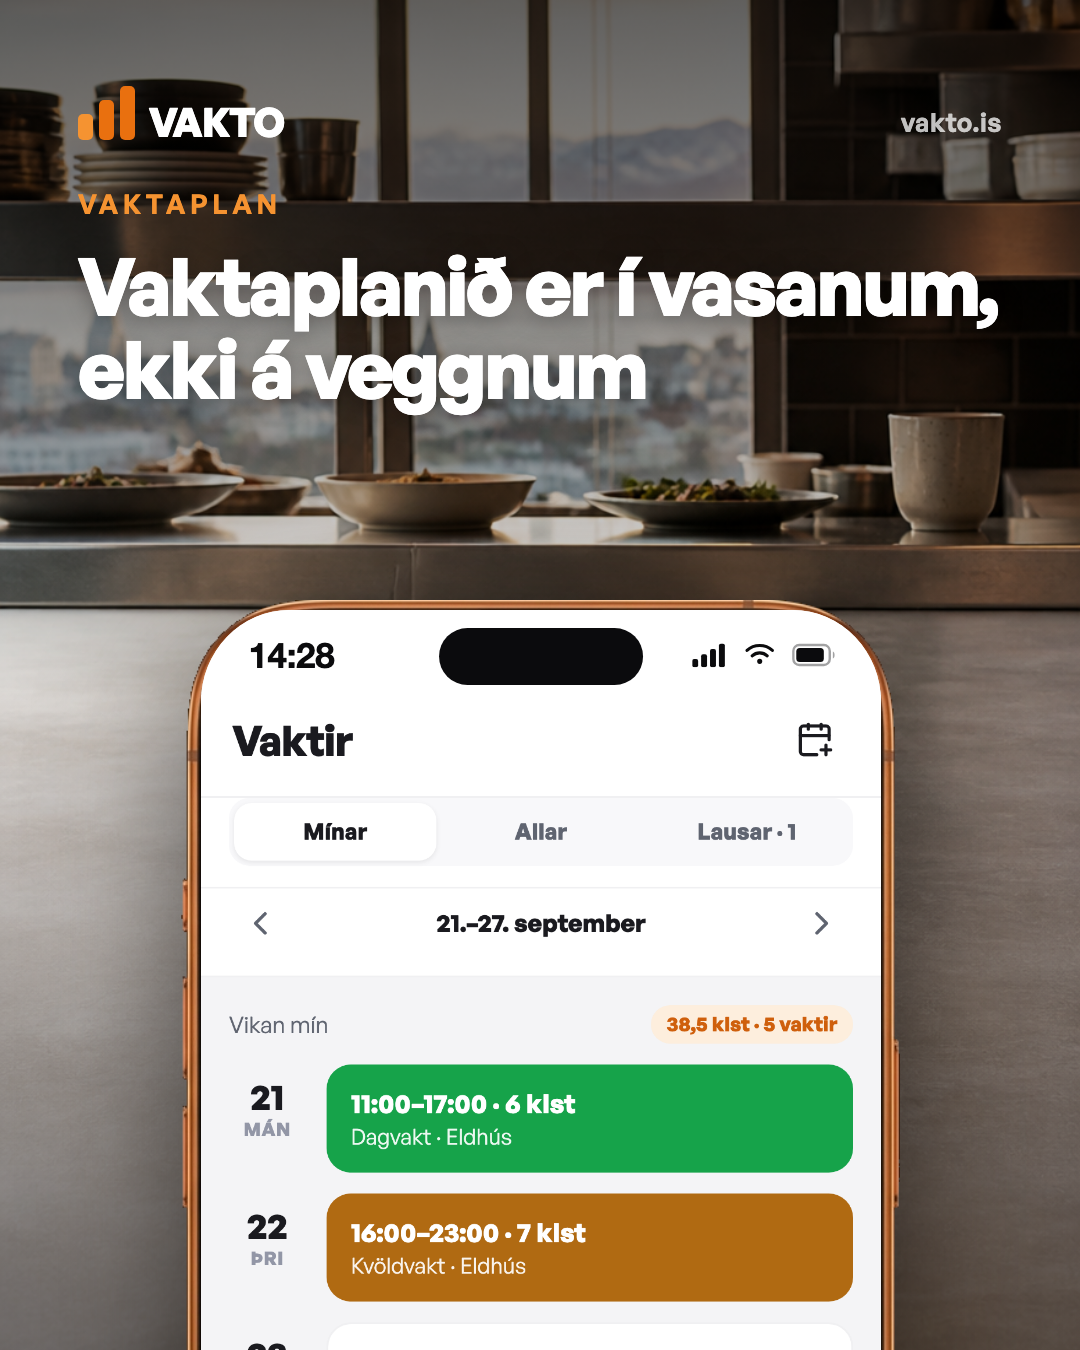
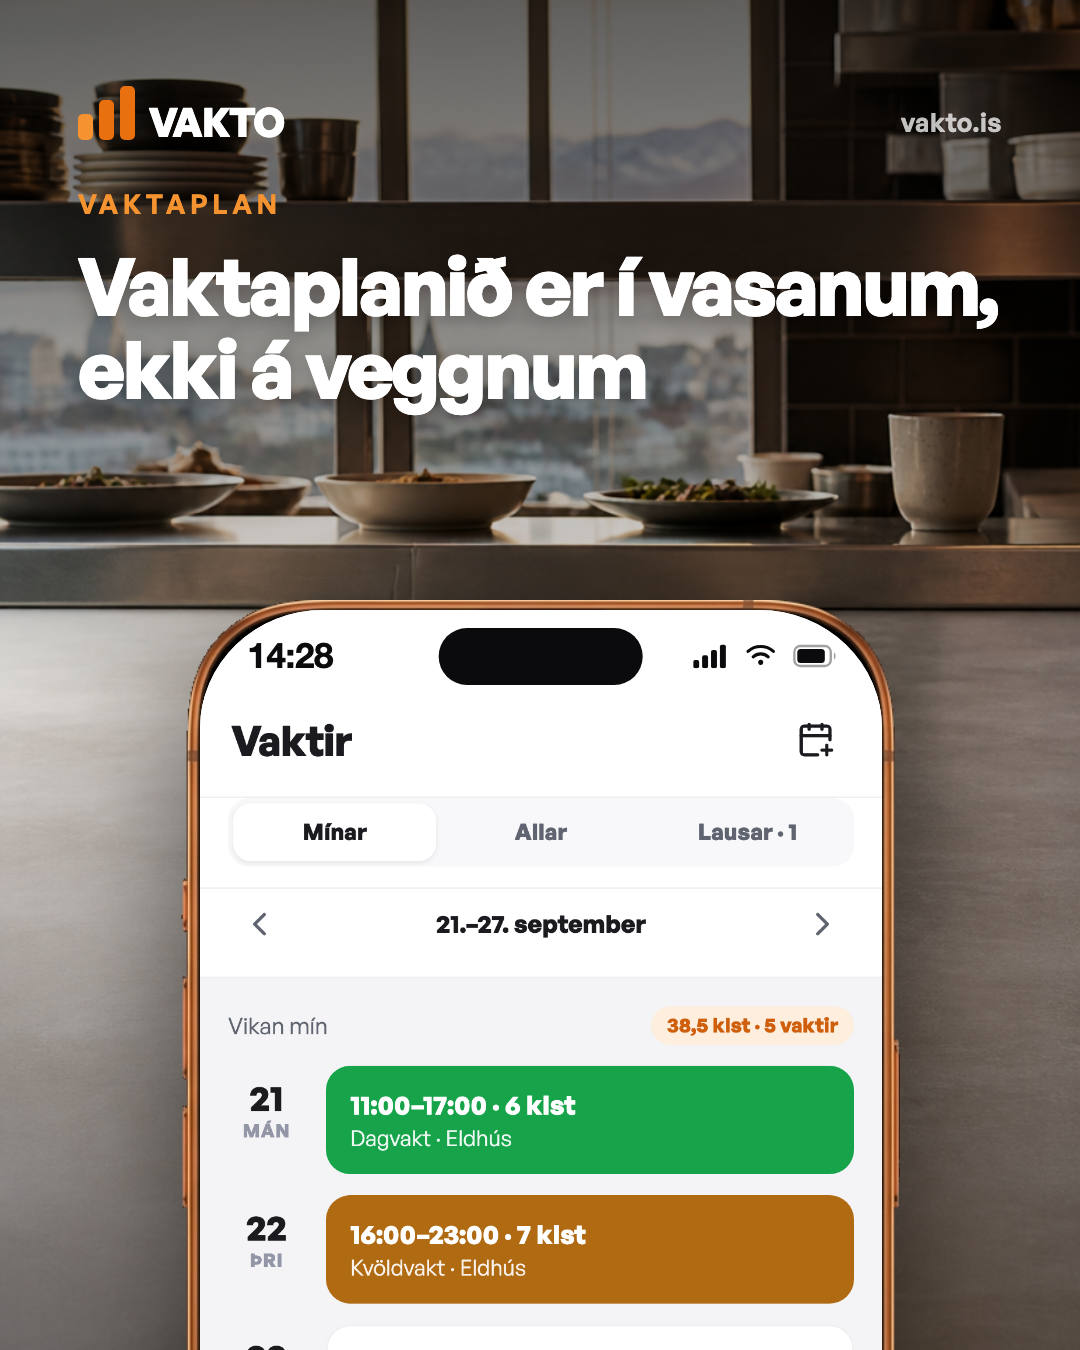
Símarammi: skjárinn mældur pixla fyrir pixla — inset 2,72/2,54/0,70/0,79% og hornradíus 18%/8,1% alls staðar (Instagram, Play, forsíða)
Claude-Session: https://claude.ai/code/session_01NsDUYcTH8AURVjNhRkVmHT

diff --git a/src/app/ny/ny.css b/src/app/ny/ny.css
@@ -376,7 +376,7 @@
 .ny-phone-real .frame{display:block;width:100%;height:auto;position:relative;z-index:1;pointer-events:none}
 .ny-phone-real{cursor:pointer}
 /* the screen area: a 3D stage whose content flips between two faces */
-.ny-phone-ui{position:absolute;left:2.9%;right:2.7%;top:.7%;bottom:1%;z-index:2;border-radius:13%/6.3%;perspective:1100px}
+.ny-phone-ui{position:absolute;left:2.72%;right:2.54%;top:.7%;bottom:.79%;z-index:2;border-radius:18%/8.1%;perspective:1100px}
 .ny-flip{position:relative;width:100%;height:100%;border-radius:inherit;transform-style:preserve-3d;transition:transform .8s var(--ease)}
 .ny-flip.flipped{transform:rotateY(180deg)}
 @media(prefers-reduced-motion:reduce){.ny-flip{transition:none}}
